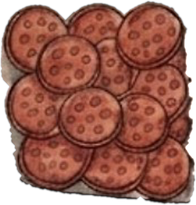
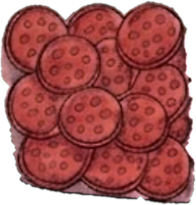
feat: show held whole toppings larger than they land, tunable
Draw a held pepperoni, basil, pineapple or olive at a tunable multiple of its placed size so it reads clearly under the pointer, expose that multiple in the Pieces tuning folder, and touch up the pepperoni fill art.

diff --git a/src/scenes/KitchenScene.ts b/src/scenes/KitchenScene.ts
@@ -178,13 +178,13 @@ export class KitchenScene extends Container {
     this.tool = tool;
     this.painting = false;
     this.held.visible = !!tool;
-    // Sauce and cheese have their own cursor art; whole toppings show their raw piece at the size it lands
+    // Sauce and cheese have their own cursor art; whole toppings show their raw piece, larger than it lands
     if (tool === 'sauce' || tool === 'cheese') {
       this.held.texture = artTexture(`held_${tool}`);
       this.held.scale.set(HELD.scale);
     } else if (tool) {
       this.held.texture = artTexture(`topping_${tool}_raw`);
-      this.held.scale.set(TOPPINGS.scale);
+      this.held.scale.set(TOPPINGS.scale * HELD.pieceScale);
     }
     this.held.position.copyFrom(this.pointer);
     this.dough.setKneadable(tool === null);

diff --git a/src/config.ts b/src/config.ts
@@ -160,9 +160,11 @@ export const PIECES = {
   scatterRadius: 0,
 };
 
-// Ingredients in hand follow the pointer, drawn at this fraction of their sheet size so they keep their relative sizes
+// Ingredients in hand follow the pointer: sauce and cheese art at scale, a fraction of their sheet size so they keep
+// their relative sizes; whole toppings show their raw piece at pieceScale times the size it lands
 export const HELD = {
   scale: 0.56,
+  pieceScale: 2,
 };
 
 // Doneness rises linearly while the dragon breathes fire on rolled dough, raw at 0 to burnt at 1; the dial shows it.

diff --git a/src/dev/tuningPanel.ts b/src/dev/tuningPanel.ts
@@ -71,6 +71,7 @@ export function createTuningPanel(scene: KitchenScene): void {
 
   const pieces = pane.addFolder({ title: 'Pieces', expanded: false });
   pieces.addBinding(PIECES, 'holdRate', { min: 0, max: 20 });
+  pieces.addBinding(HELD, 'pieceScale', { label: 'heldScale', min: 0.5, max: 4 });
   pieces.addBinding(PIECES, 'scatterRadius', { min: 0, max: 150, step: 1 });
   cheese.addBinding(TOPPINGS, 'scale', { label: 'pieceScale', min: 0.05, max: 1 });
   cheese.addBinding(TOPPINGS, 'scaleJitter', { min: 0, max: 0.5 });
